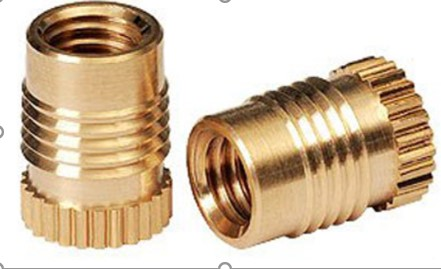
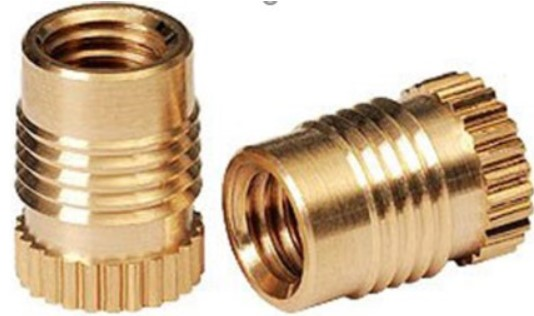
Updated README and photos

diff --git a/README.md b/README.md
@@ -10,13 +10,17 @@ The power distribution unit is a *3D-printed box*, containing all the necessary 
 
 ### Structural 
 
-The power distribution unit is *3D-printed*, thing that gives facility for many configurations. The construction is composed of 6 pieces, due to the 3D printer restrictions, that were glued together. The box is made of ABS, due to its low weight, its high temperature resistance and because its electrically non conductive. An exploded view of the splitter box can be seen below.
+The power distribution unit is *3D-printed*, thing that gives facility for many configurations. The construction is composed of 6 pieces, due to the 3D printer restrictions, that were glued together. The box is made of ABS, due to its low weight, its high temperature resistance and because its electrically non conductive. An exploded view of the splitter box as well as the HVD lid can be seen below. The top lid of the box is a 2mm transparent polycarbonate piece for fast inspection of the system.  
 
-|                         Box Exploded                         |                           HVD Lid                            |
+|                    Splitter Box Exploded                     |                           HVD Lid                            |
 | :----------------------------------------------------------: | :----------------------------------------------------------: |
 | ![](https://github.com/tsoukias/Power-Distribution-Unit-ARISTURTLE-/blob/master/Splitter-Box_renders/splitter-exploded.jpg) | ![](https://github.com/tsoukias/Power-Distribution-Unit-ARISTURTLE-/blob/master/Splitter-Box_renders/HVD-LID.jpg) |
 
+For waterproofing the construction a special recess was placed around the perimeter of the box for installing an o-ring. The box has to compartments that are separated by a polycarbonate piece for ensuring electrical insulation between the two. One other important aspect of the construction is the use of brass threaded inserts for screwing all the components together. 
 
+|                    Brass Threaded Insert                     |                      Busbar Insulators                       |
+| :----------------------------------------------------------: | :----------------------------------------------------------: |
+| ![](https://github.com/tsoukias/Power-Distribution-Unit-ARISTURTLE-/blob/master/Splitter-Box_renders/brass-threaded-inserts.jpg) | ![](https://github.com/tsoukias/Power-Distribution-Unit-ARISTURTLE-/blob/master/Splitter-Box_renders/busbar-insulators.jpg) |
 
 ### High Voltage Compartment
 
